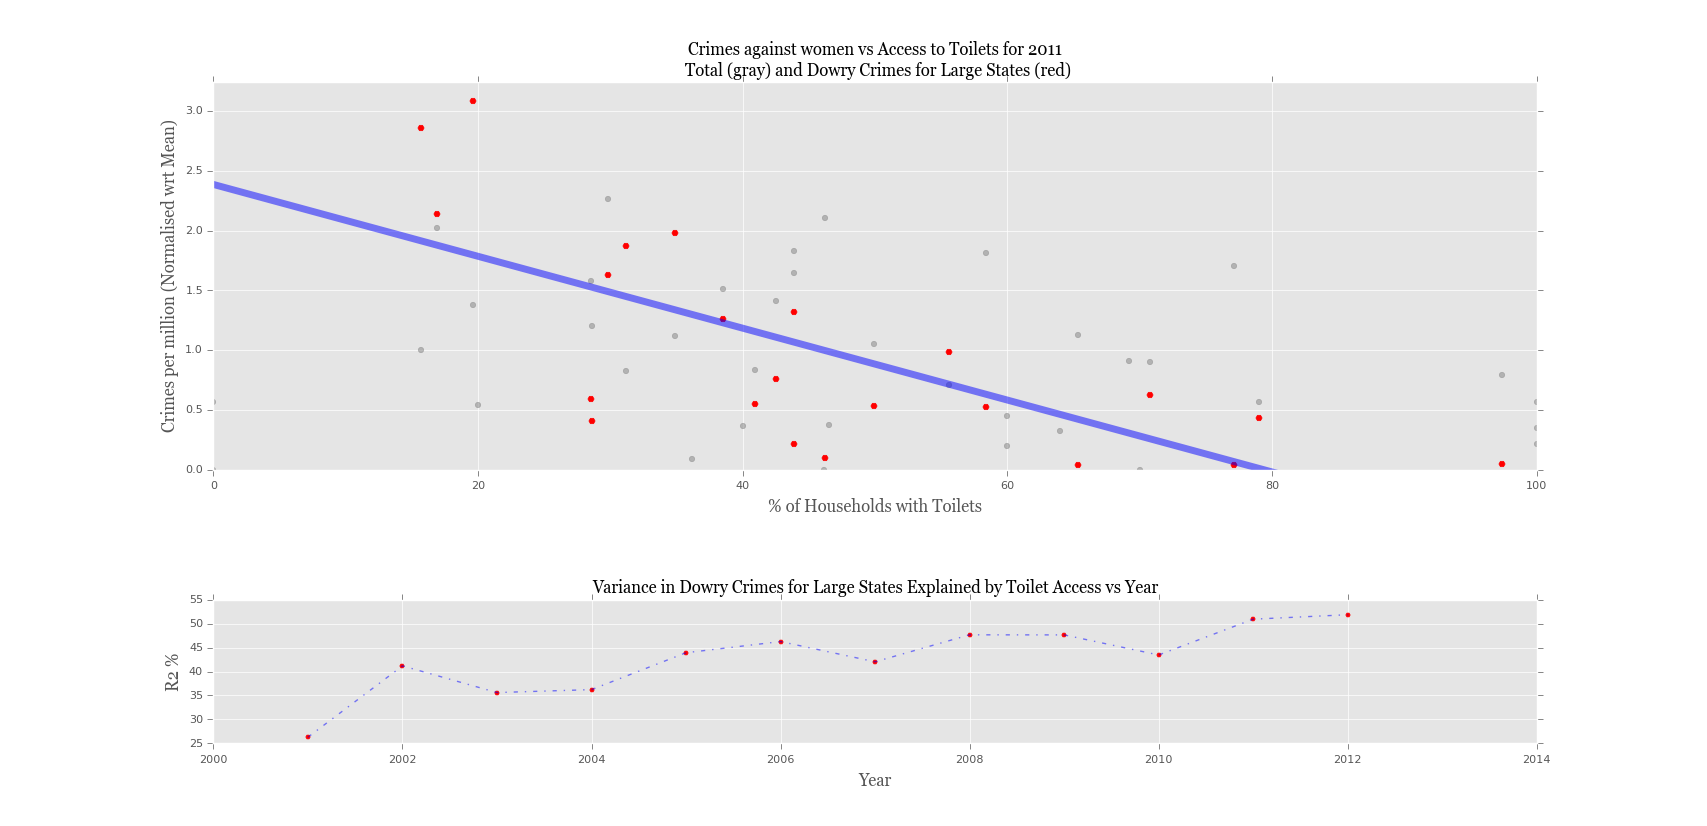
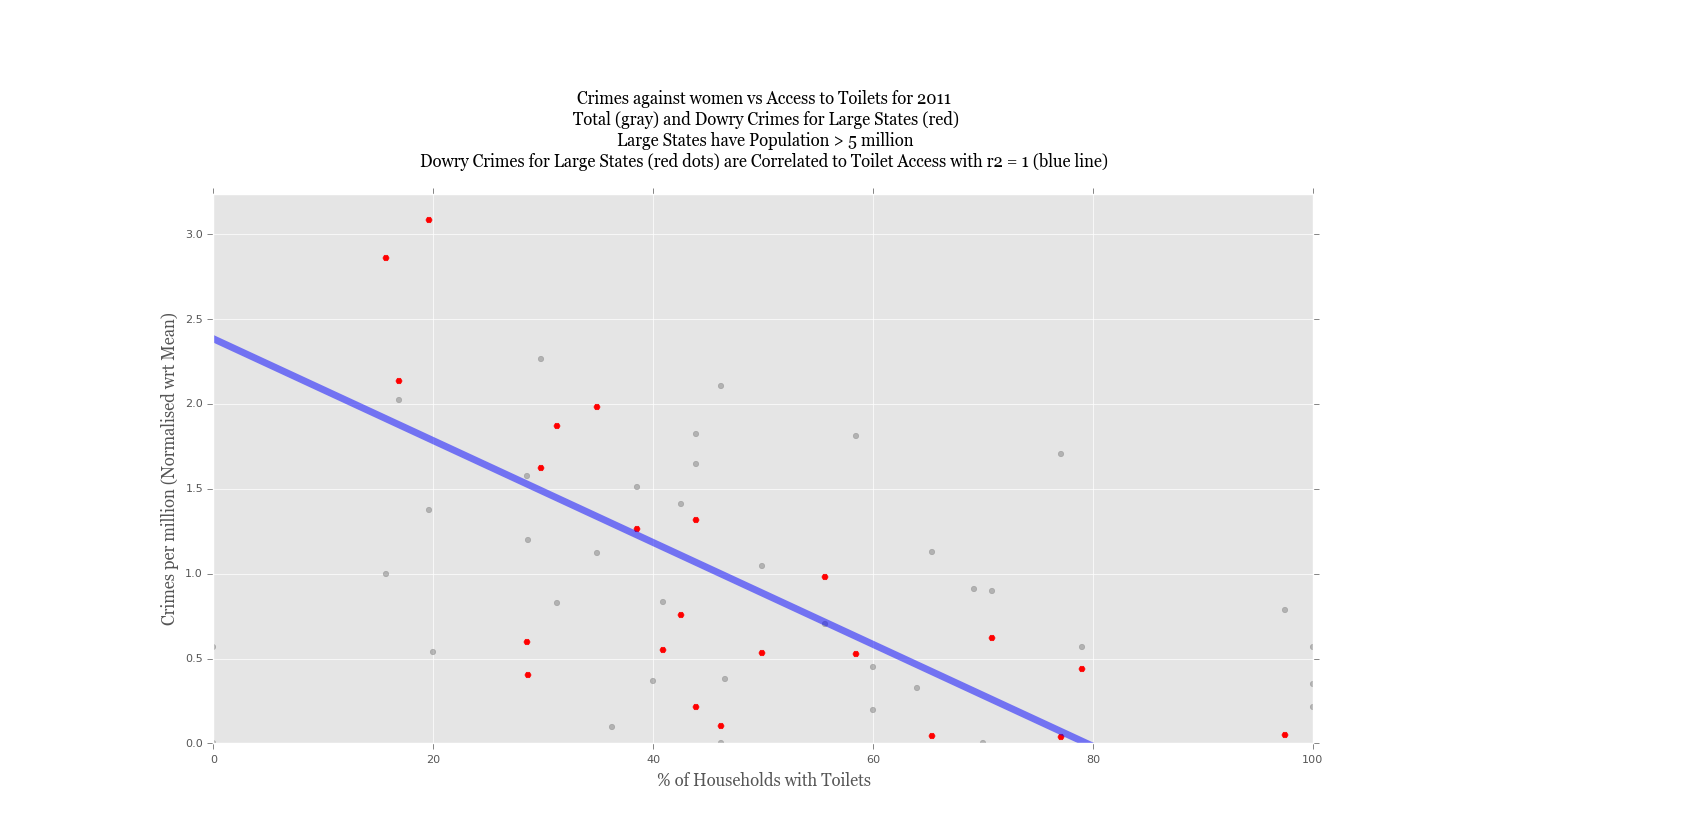
Updated Readme.md and Dowry_Deaths_Access_To_Toilets.png

diff --git a/README.md b/README.md
@@ -1,2 +1,71 @@
 # Proposal
 Proposal as Part 3 of the Challenge Questions
+
+There are two figures:
+1.  Figure 1:  Dowry_Deaths_Access_To_Toilets.png
+2.  Figure 2:  TV_Good_Kitchen_Indoor_Toilets.png
+
+Figure 1:
+    The figure shows the relation between crimes against women as arrests-per-million-residents and the
+    accessibility of toilets.  The data is aggregated statewise.
+    There is strong correlation (r2 ~ 0.5) for a very peculiar crime: dowry-crimes (including dowry deaths).
+    What was peculiar about this data is that there was no correlation between OTHER behaviours 
+    designed to intimidate women e.g. rape, kidnapping, cruelty, assault etc.
+    This might merely hide the fact that the other crimes go unreported: often covered up by the
+    victim herself. The dowry death is the only crime to come to light since the victim is 
+    no longer alive to protect her assailants.    
+    
+    This figure was made using data from two sources:
+    1.  https://data.gov.in/resources/persons-arrested-under-crime-against-women-during-2001-2012/
+        The title is: "Persons arrested under crime against Women during 2001-2012"
+        The crime heads are:  
+        (a) 'RAPE', 
+        (b)  'KIDNAPPING AND ABDUCTION', 
+        (c)  'DOWRY DEATHS',
+        (d)  'ASSAULT ON WOMEN WITH INTENT TO OUTRAGE HER MODESTY',
+        (e)  'INSULT TO THE MODESTY OF WOMEN',
+        (f)  'CRUELTY BY HUSBAND OR HIS RELATIVES (IPC SECTION 498A)',
+        (g) 'IMPORTATION OF GIRLS FROM FOREIGN COUNTRY',
+        (h)  'IMMORAL TRAFFIC (P) ACT', 'DOWRY PROHIBITION ACT',
+        (i)  'INDECENT REPRESENTATION OF WOMEN (P) ACT',
+        (j) 'COMMISSION OF SATI (P) ACT', 'TOTAL CRIMES AGAINST WOMEN'
+        The data was taken from http://www.ncrb.gov.in/ (National Crimes Record Bureau)
+    2.   https://data.gov.in/resources/percentage-awc-having-toilet-facilities/
+        The title is: "Percentage of AWC having toilet Facilities"
+        The data was taken from http://planningcommission.gov.in/ (Planning Commission)
+        The data was also aggregated by state.  
+    The data is complied in rape_vs_toilet.csv
+
+Figure 2:
+    Since Figure 1 seems to show a relation between toilet access and respect for women in large states, 
+    it was interesting to explore the correlations in the sub-districts of one large state.
+    The state chosen was Maharashtra since the districts here show wide variety in affluence.
+      
+    The figure 2 shows the relation between a number of householding having a good kitchen and 
+    the number with indoor toilets in both urban and rural areas of Maharashtra.
+    A good kitchen is one that is (a) Indoors and (b) uses LPG as fuel.
+    
+    To control for affluence, two more graphs showing the relation between a good kitchen and TV ownership are shown.
+    The null hypothesis (from Figure 1) is that access to toilets is a gender justice issue.  
+    It is seen that urban areas show a strong correlation between good kitchens and indoor toilets.
+    Rural areas also show a strong correlation but weaker than urban areas.  
+    Both regions show a very strong relationship between good kitchens and TV ownership.
+    
+    The interesting question now is:  Is TV ownership driving female empowerment?  
+    i.e. would a lady get a better kitchen after:
+        (a)  seeing a nice kitchen on TV
+        (b)  being inspired by the TV personalities to be more assertive.
+    
+    
+    The data is taken from the 2011 Indian Census' Households Data: http://www.censusindia.gov.in/2011census/Hlo-series/hlo.html  
+    The data is reported as number of households in various tehsils (sub-districts) that have indoor toilets, TVs, LPG kitches etc.
+    
+    The data is complied in three files:
+    mah_assets_tv.csv  : for TV ownership
+    mah_kitchen.csv    : for kitchen details
+    mah_latrine.csv    : for toilet details
+      
+
+
+
+
